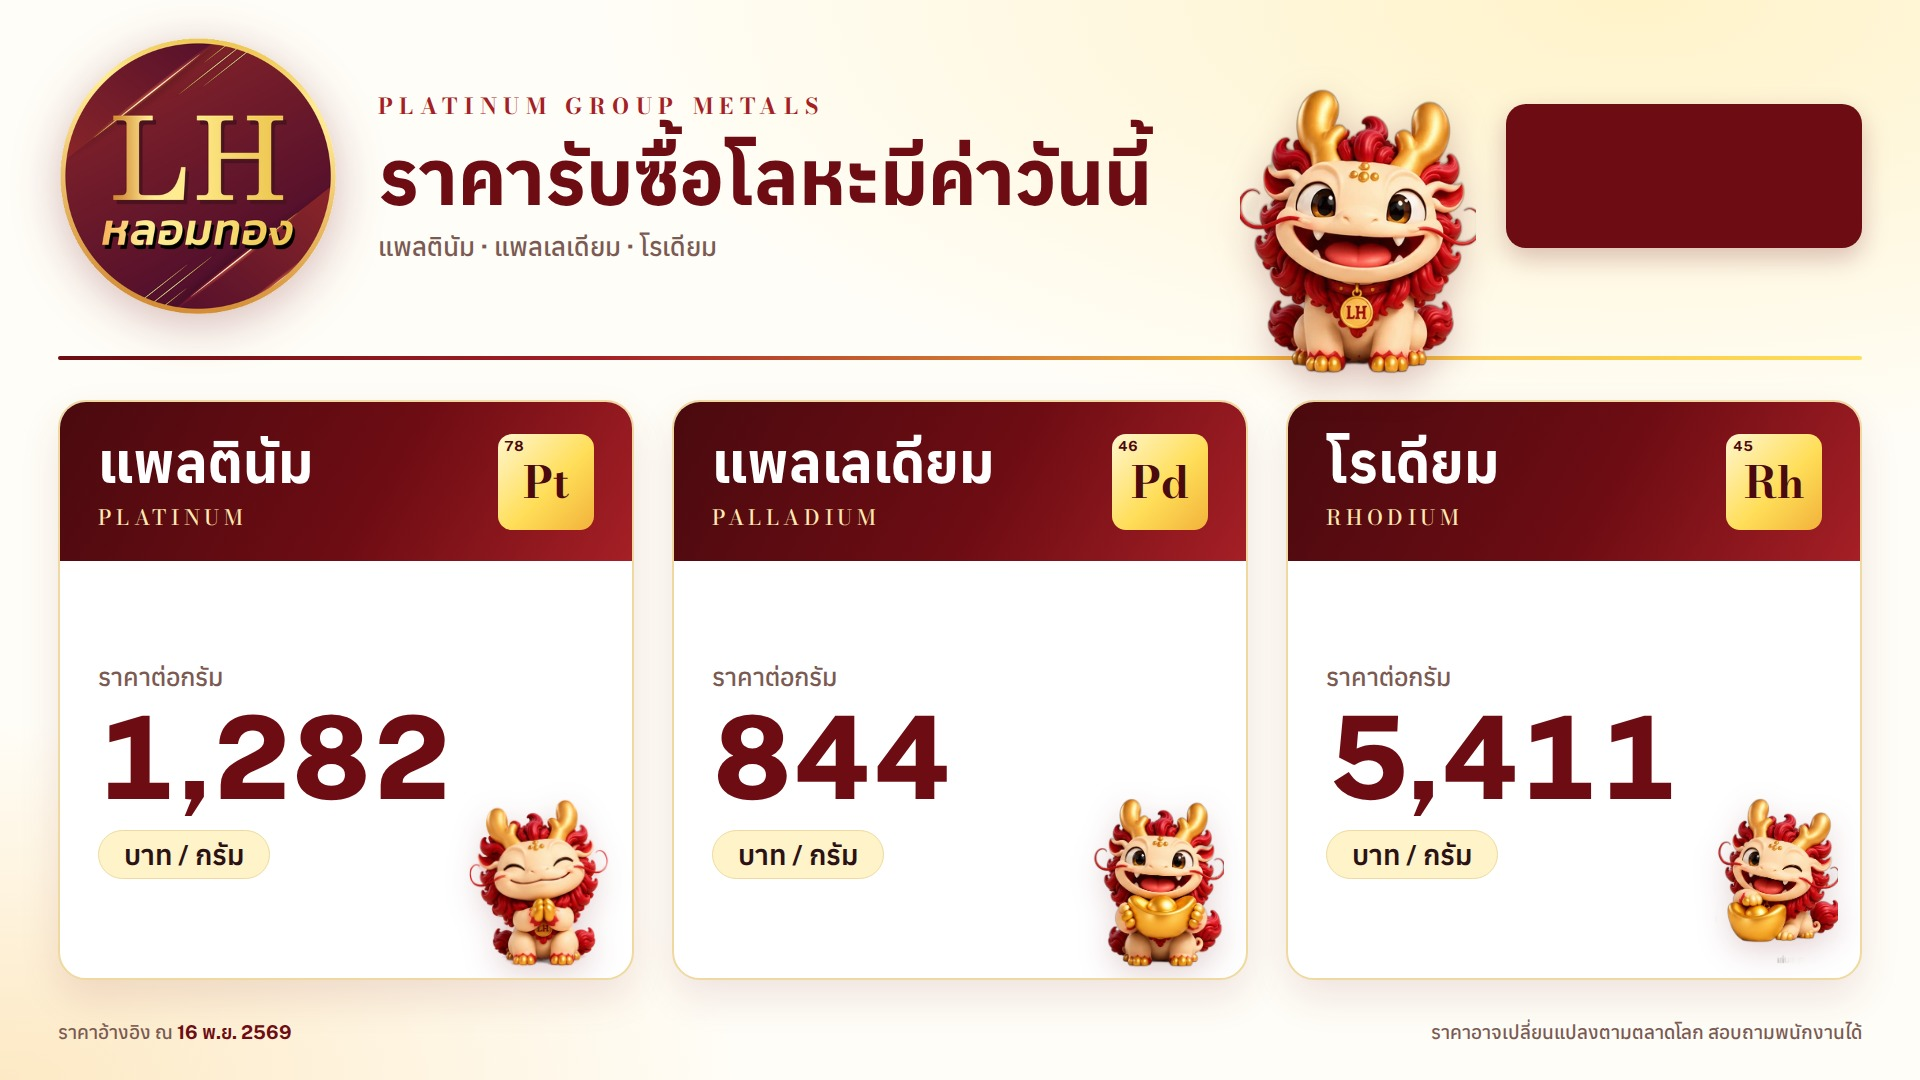
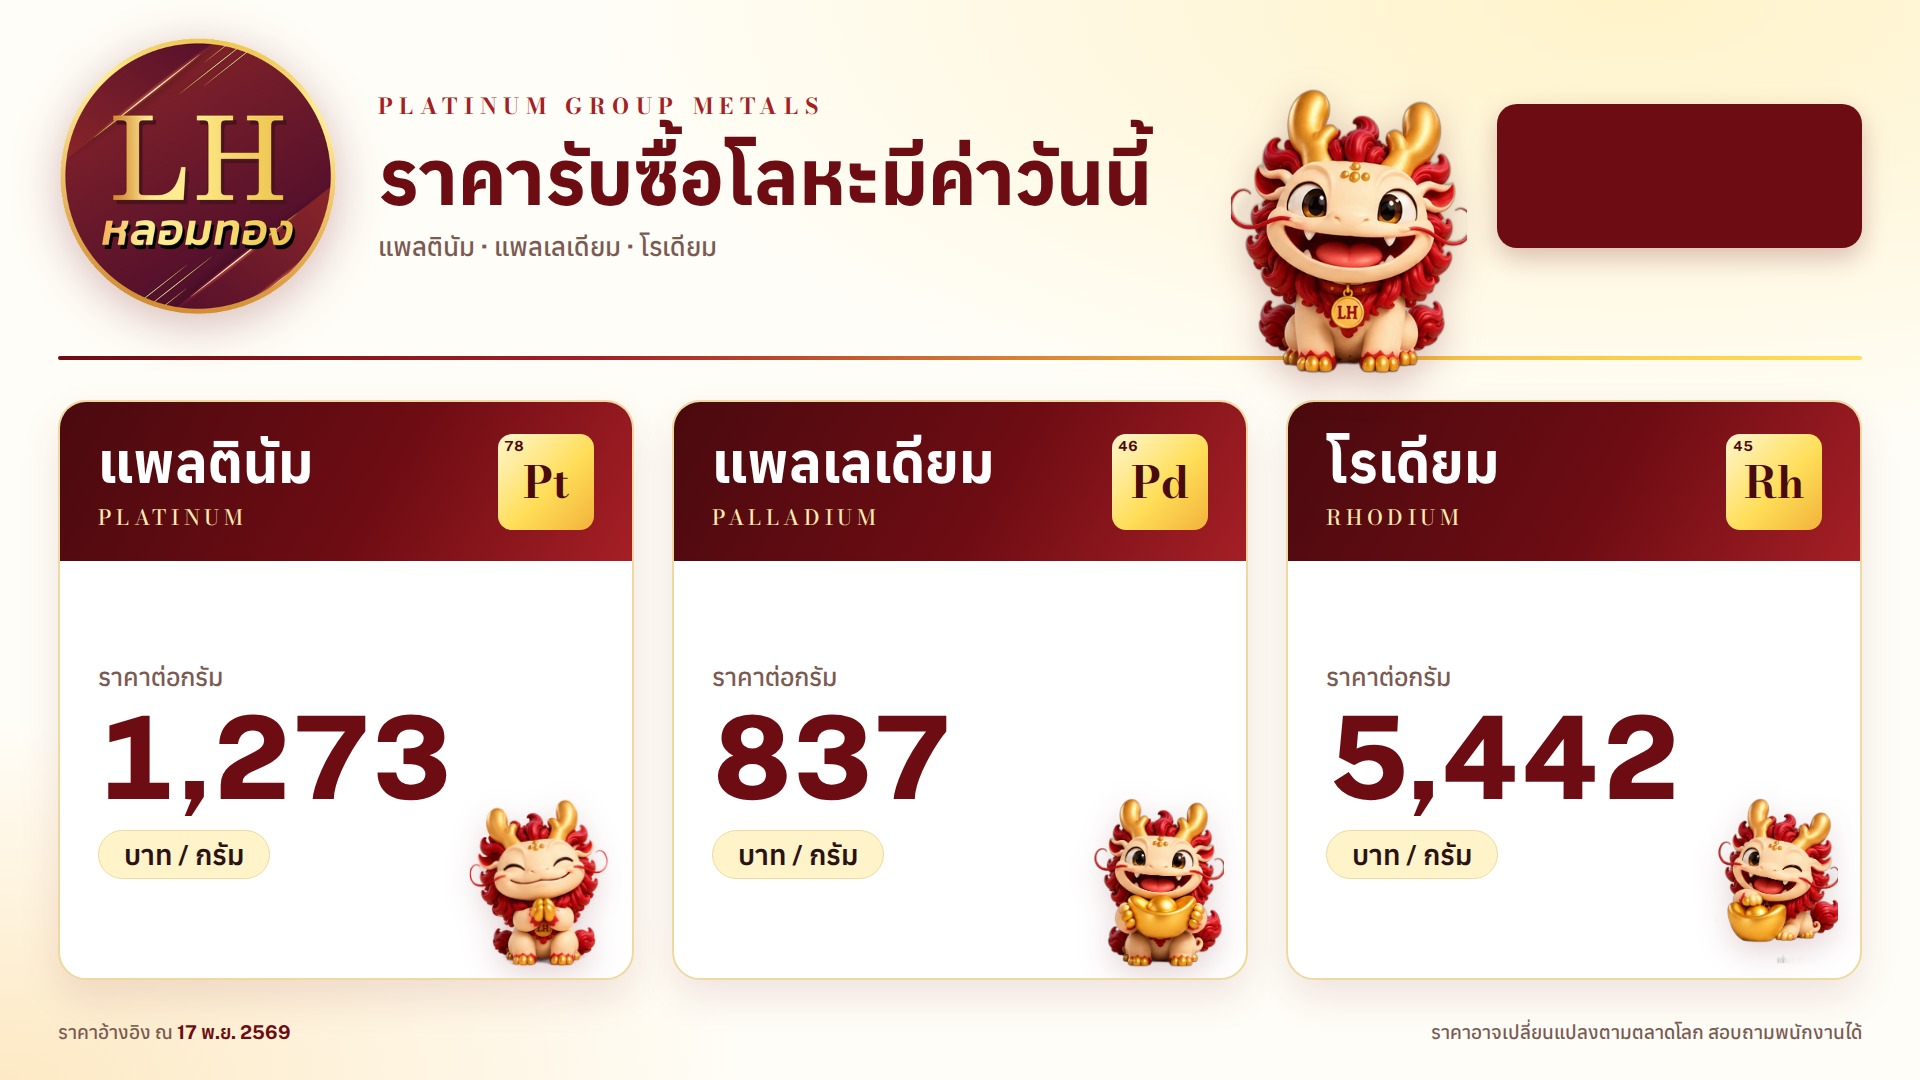
Update prices 2026-11-17

diff --git a/board.html b/board.html
@@ -302,15 +302,15 @@ html{-webkit-text-size-adjust:100%;text-size-adjust:100%}
      ราคาแต่ละเกรด = ราคาเงินหลังหัก × เปอร์เซ็นต์ (99.99% ใช้ราคาเต็ม)
    showSilver = เปิด/ปิดหน้าราคาเงิน, rotateSeconds = เปลี่ยนหน้าทุกกี่วินาที */
 const CONFIG = {
-  asOf: "16 พ.ย. 2569",
-  fx: 33.90,
+  asOf: "17 พ.ย. 2569",
+  fx: 33.89,
   discount: 0.20,
   rotateSeconds: 15,
   showSilver: true,
   metals: [
-    { th:"แพลตินัม",  en:"Platinum",  sym:"Pt", z:78, usdPerGram:47.2616 },
-    { th:"แพลเลเดียม", en:"Palladium", sym:"Pd", z:46, usdPerGram:31.1219 },
-    { th:"โรเดียม",    en:"Rhodium",   sym:"Rh", z:45, usdPerGram:266.05, discount:0.40 }
+    { th:"แพลตินัม",  en:"Platinum",  sym:"Pt", z:78, usdPerGram:46.9401 },
+    { th:"แพลเลเดียม", en:"Palladium", sym:"Pd", z:46, usdPerGram:30.8647 },
+    { th:"โรเดียม",    en:"Rhodium",   sym:"Rh", z:45, usdPerGram:267.65, discount:0.40 }
   ],
   silver: { pricePerKg: 55000, grades: [95, 92.5, 90, 70, 50, 30] }
 };
